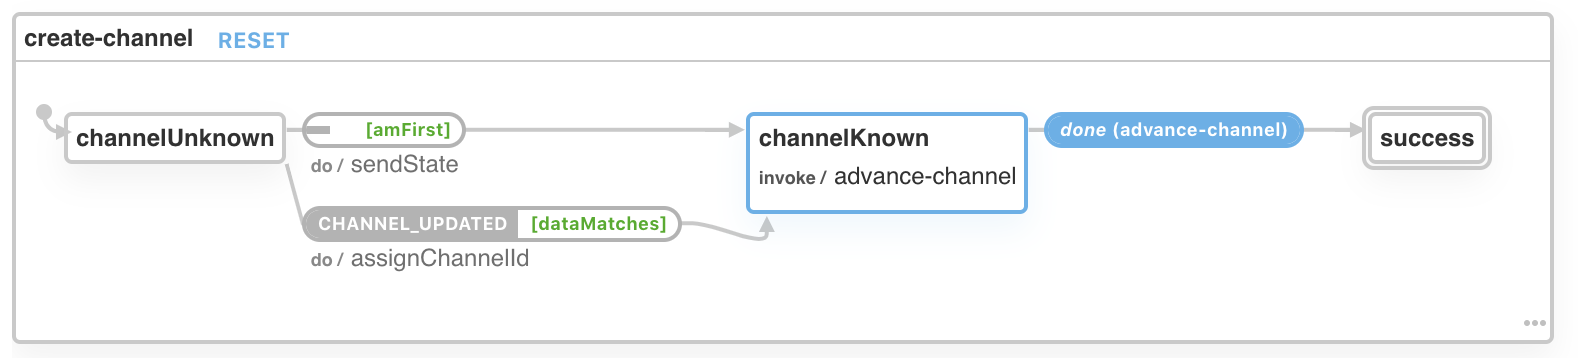
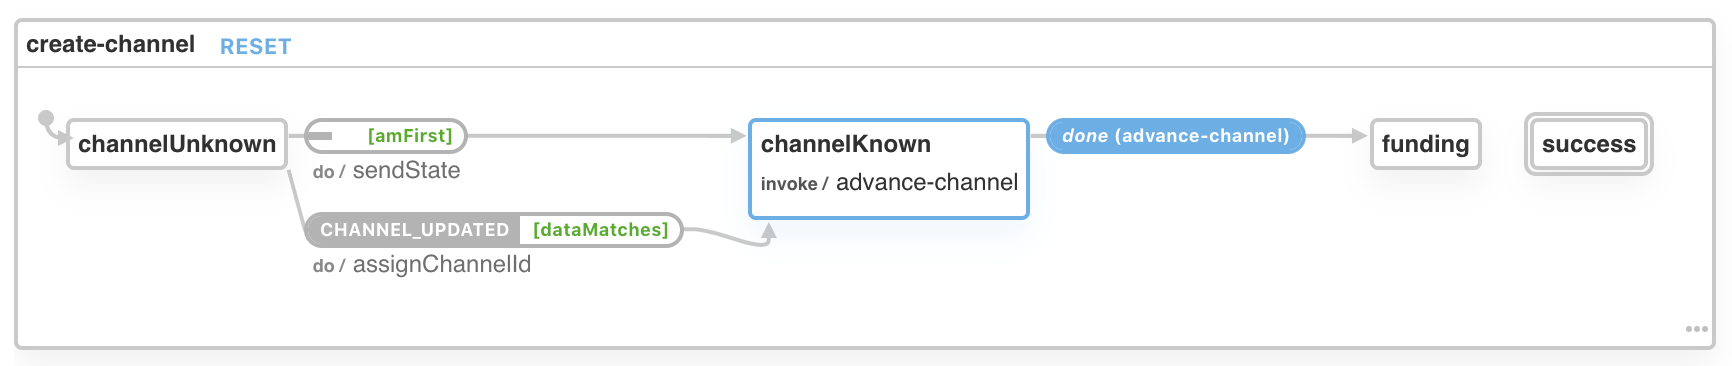
Clean up create-channel

Changed region(s): [[0.0, 0.0307, 0.9937, 0.9832], [0.0, 0.2765, 0.0311, 0.3073]]

diff --git a/src/protocols/create-channel/protocol.ts b/src/protocols/create-channel/protocol.ts
@@ -30,7 +30,7 @@ const channelKnown = {
   invoke: {
     src: 'advance-channel',
     data: 'passChannelId',
-    onDone: 'success',
+    onDone: 'funding',
   },
 };
 
@@ -40,6 +40,7 @@ const config = {
   states: {
     channelUnknown,
     channelKnown,
+    funding: {}, // TODO
     success: { type: 'final' },
   },
 };

diff --git a/src/protocols/create-channel/protocol.config.js b/src/protocols/create-channel/protocol.config.js
@@ -16,9 +16,10 @@ const config = {
       invoke: {
         src: 'advance-channel',
         data: 'passChannelId',
-        onDone: 'success',
+        onDone: 'funding',
       },
     },
+    funding: {},
     success: { type: 'final' },
   },
 };
